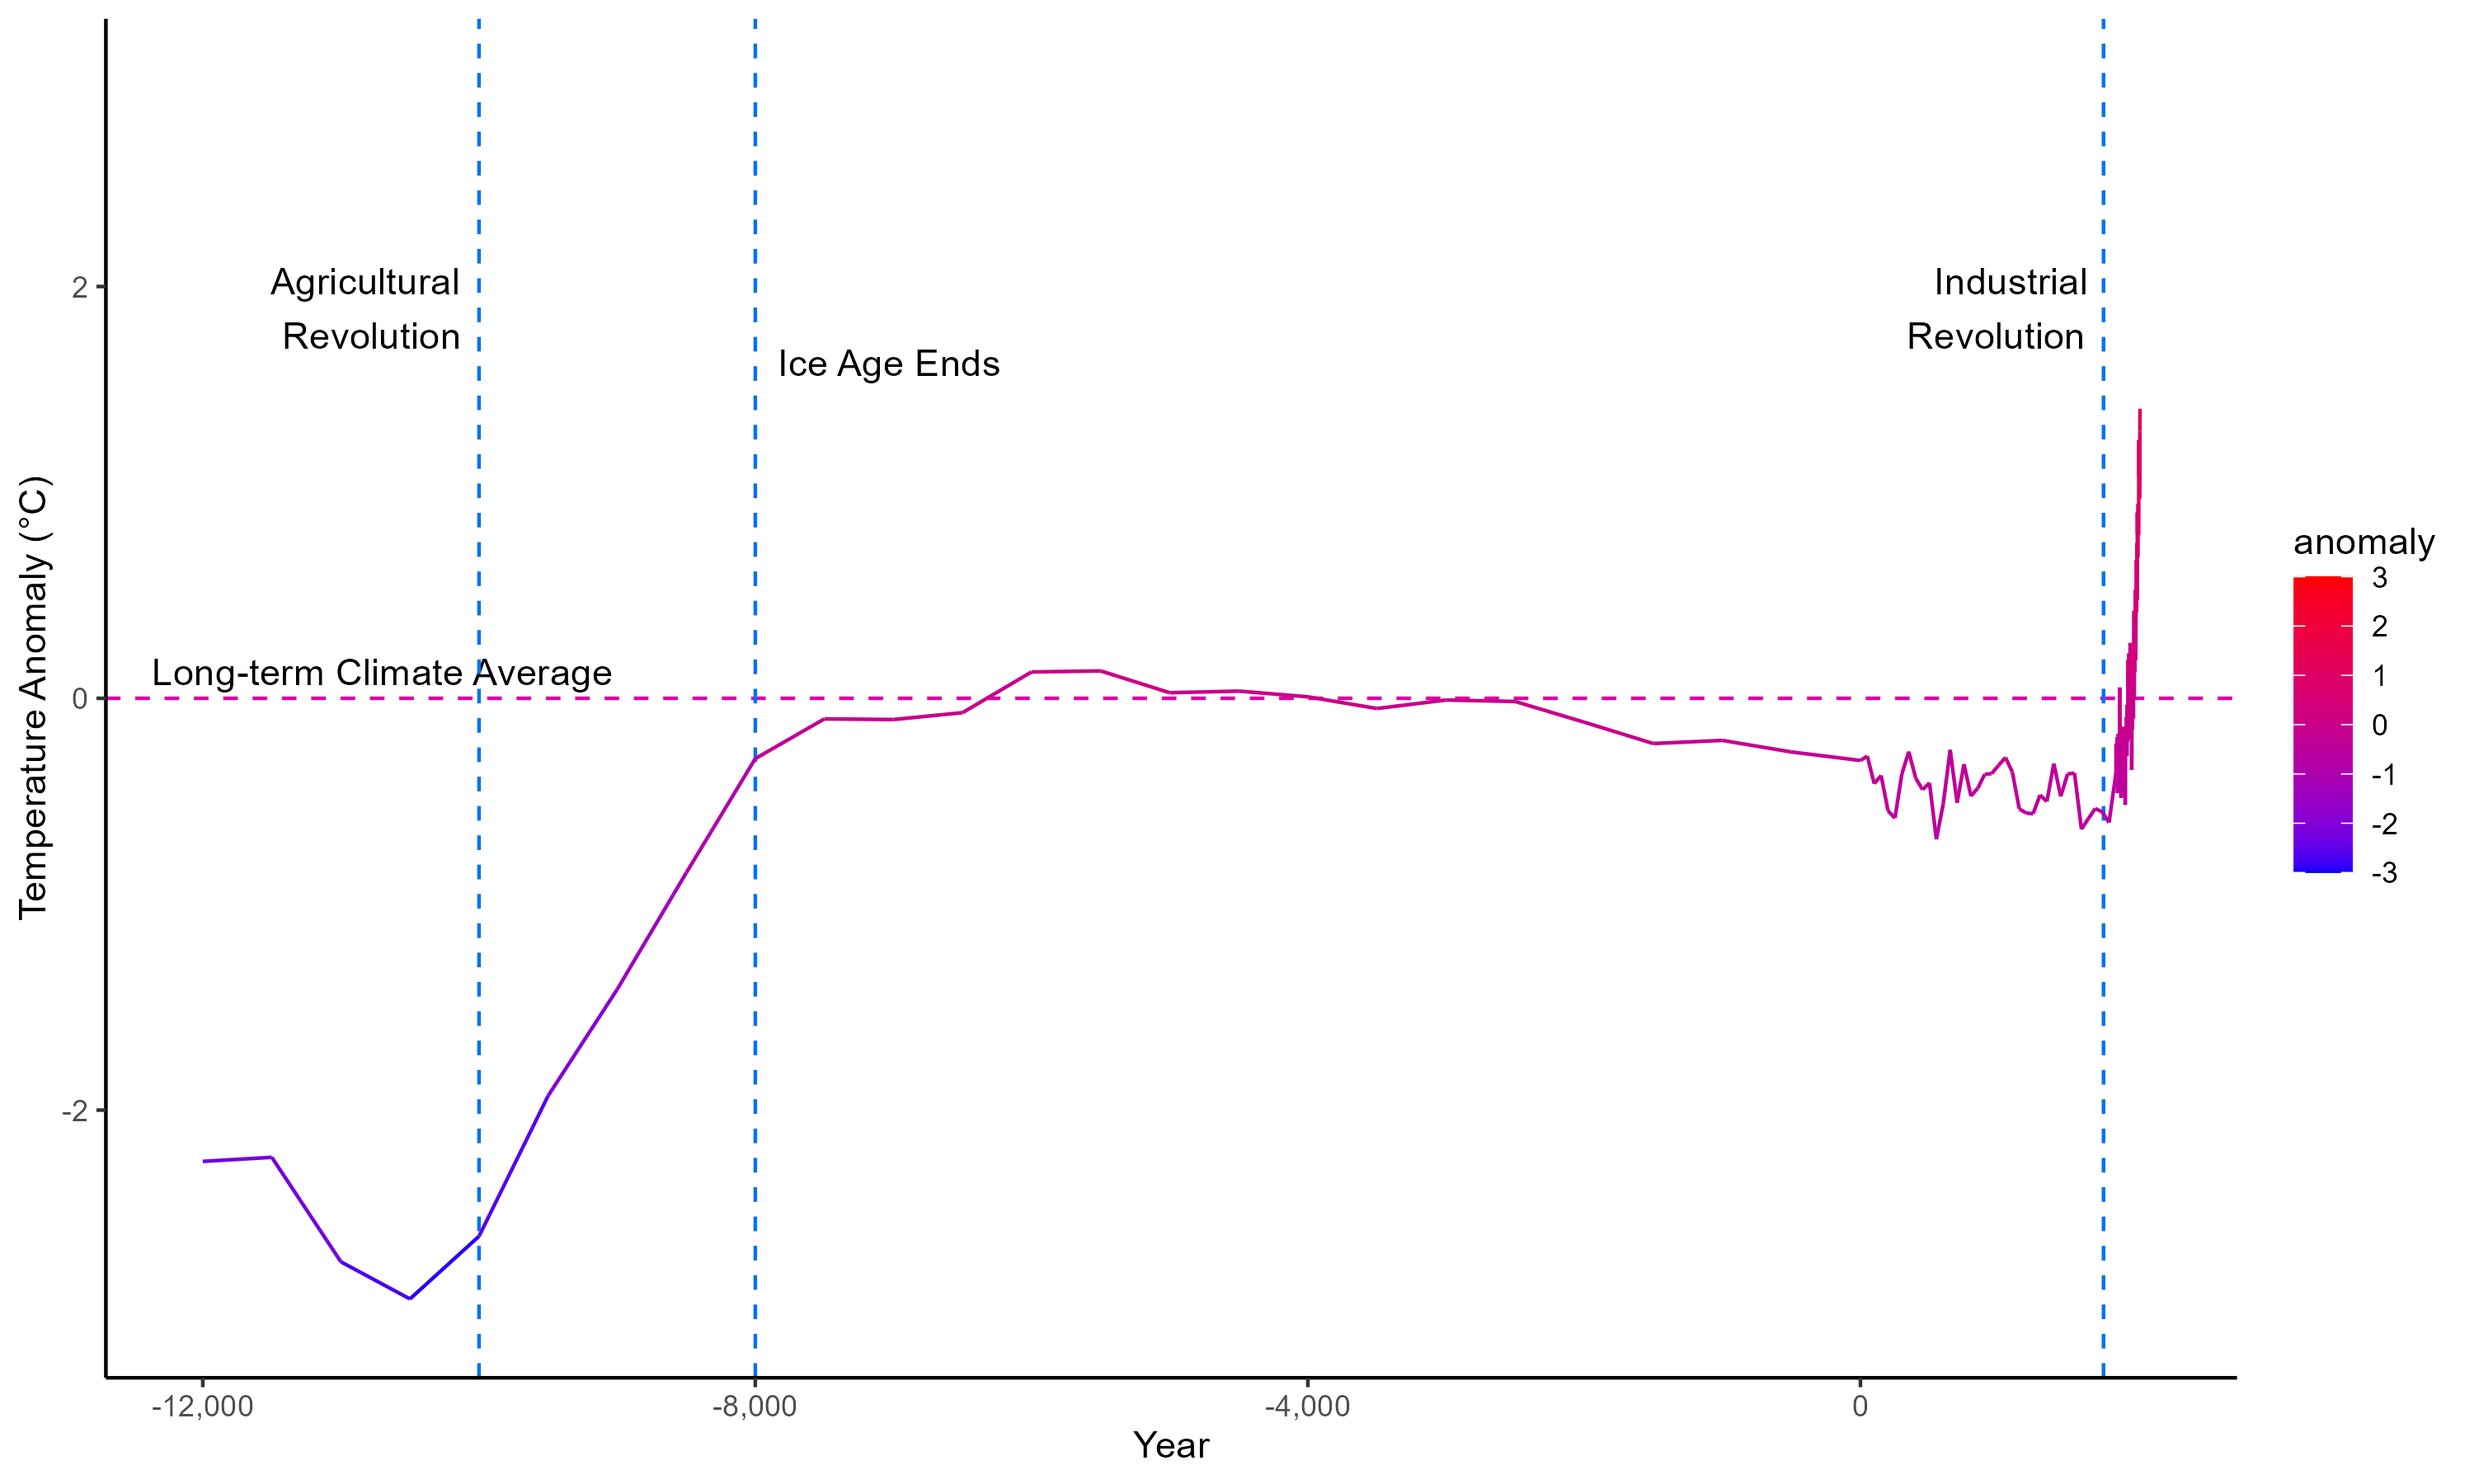
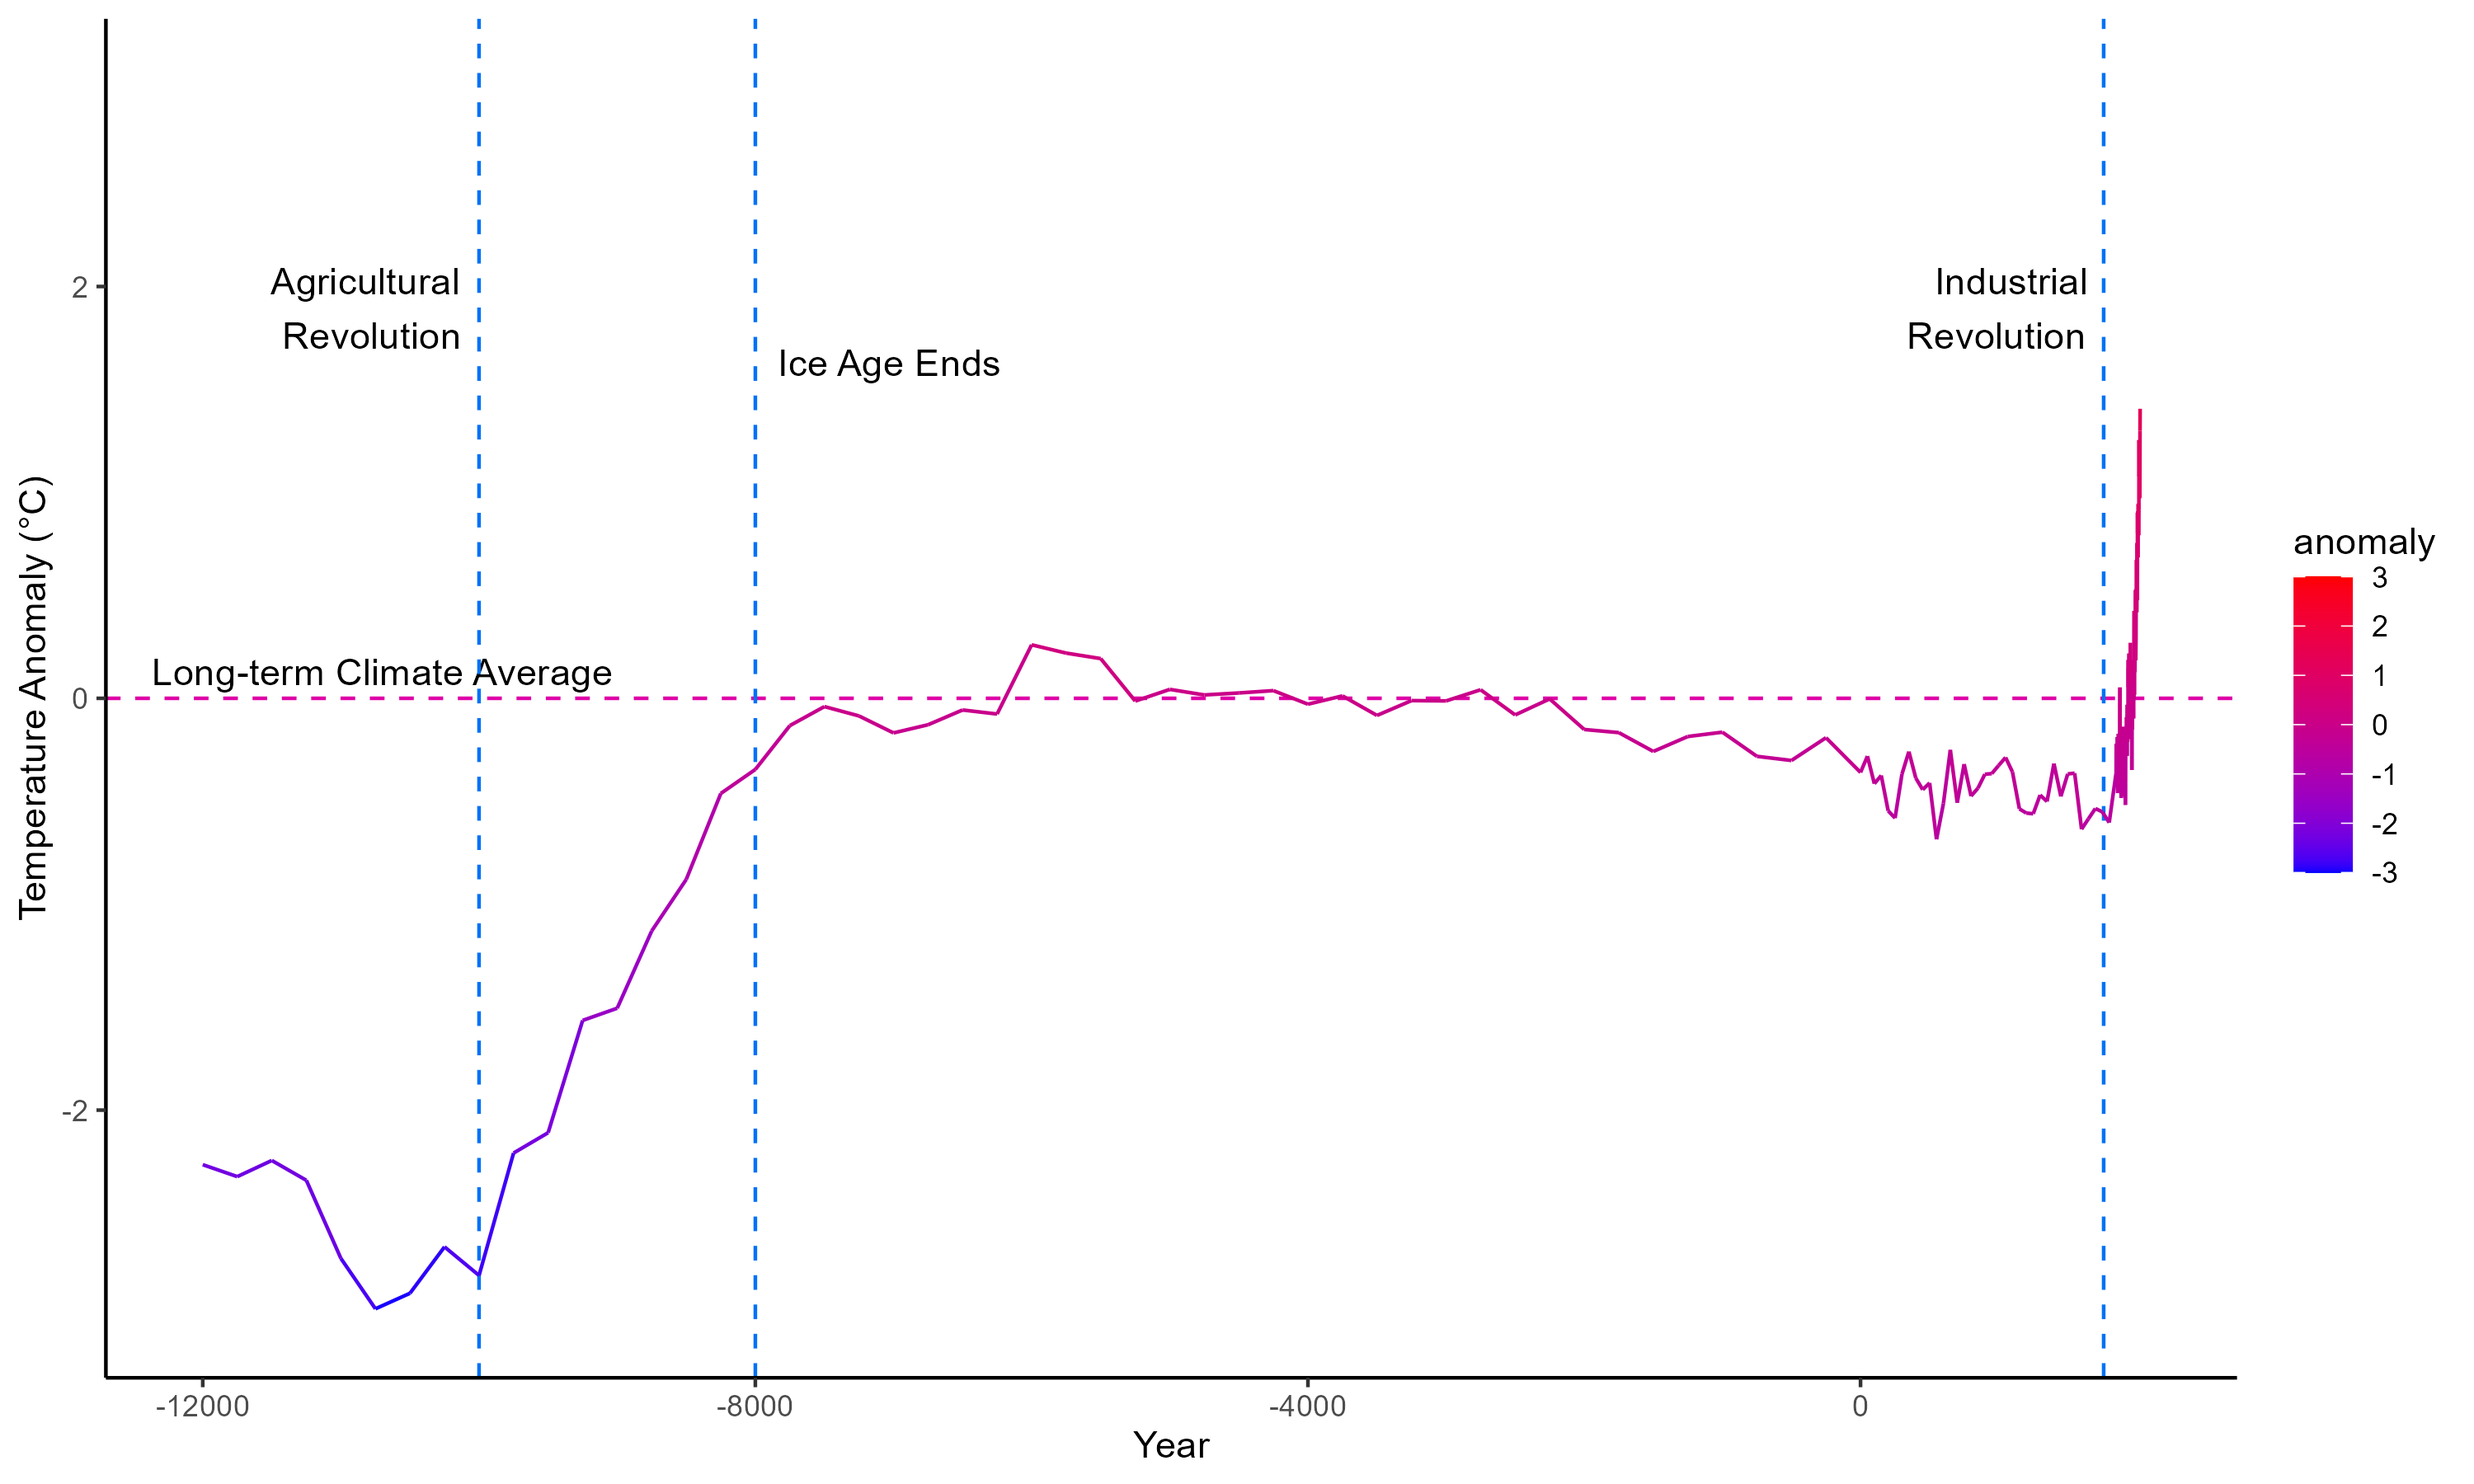
Added CO2 data

diff --git a/Temp12k_ETL.py b/Temp12k_ETL.py
@@ -359,8 +359,8 @@ def get_year_bin(year: int) -> int:
         return round(year / 50000) * 50000
     elif year < -20000:  # Nearest 2000
         return round(year / 2000) * 2000
-    elif year < 0:  # Nearest 500
-        return round(year / 500) * 500
+    elif year < 0:  # Nearest 250
+        return round(year / 250) * 250
     elif year < 1850:  # Nearest 50
         return round(year / 50) * 50
     else:  # Nearest 1

diff --git a/README.md b/README.md
@@ -10,3 +10,15 @@ Temperature anomaly since 12,000 BC:
 
 Temperature anomaly since 1850:
 ![Modern Temperature Anomaly](Outputs/modern_temperature_anomaly_line_plot.png)
+
+Research AGGI Index:
+https://gml.noaa.gov/aggi/aggi.html
+
+CO2 levels in past 11,000 years dataset:
+https://daac.ornl.gov/cgi-bin/dsviewer.pl?ds_id=1382
+
+More CO2 level datasets:
+https://www.ncei.noaa.gov/access/paleo-search/
+
+Milankovitch Cycles dataset:
+http://www.climatedata.info/forcing/data-downloads/
